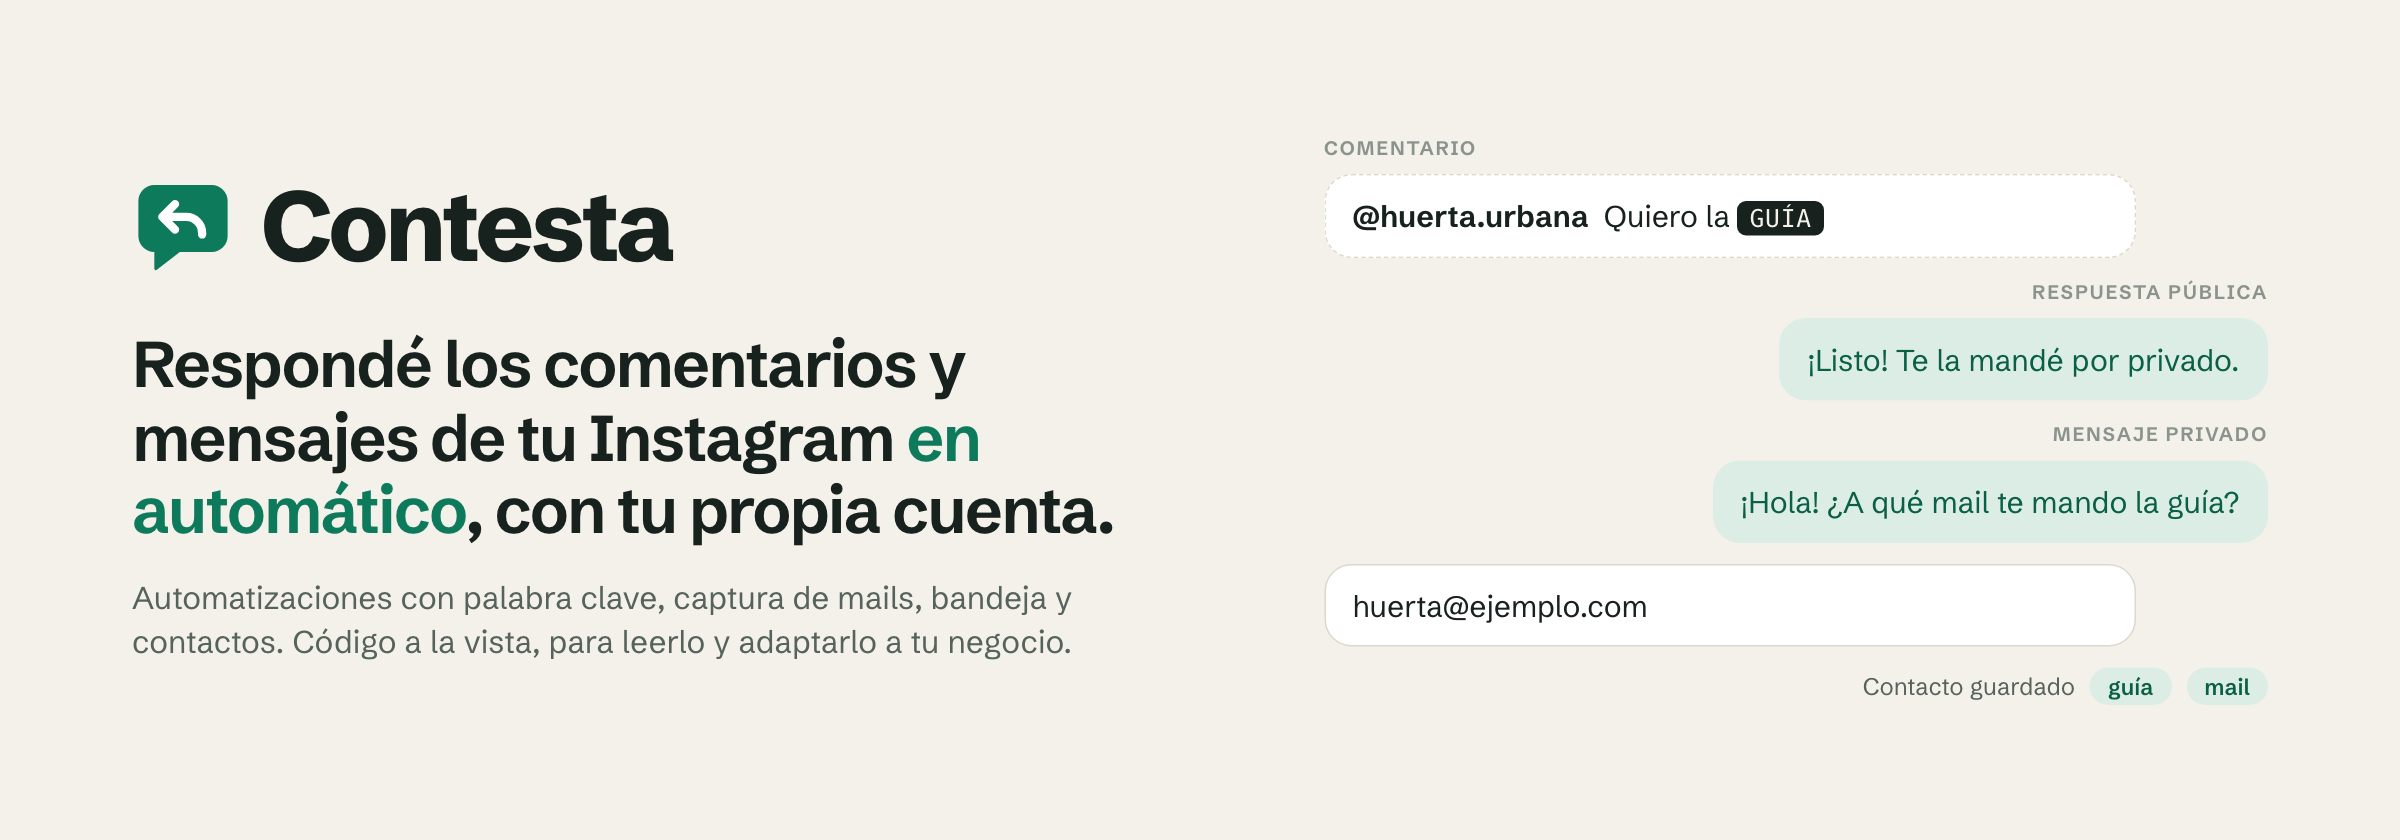
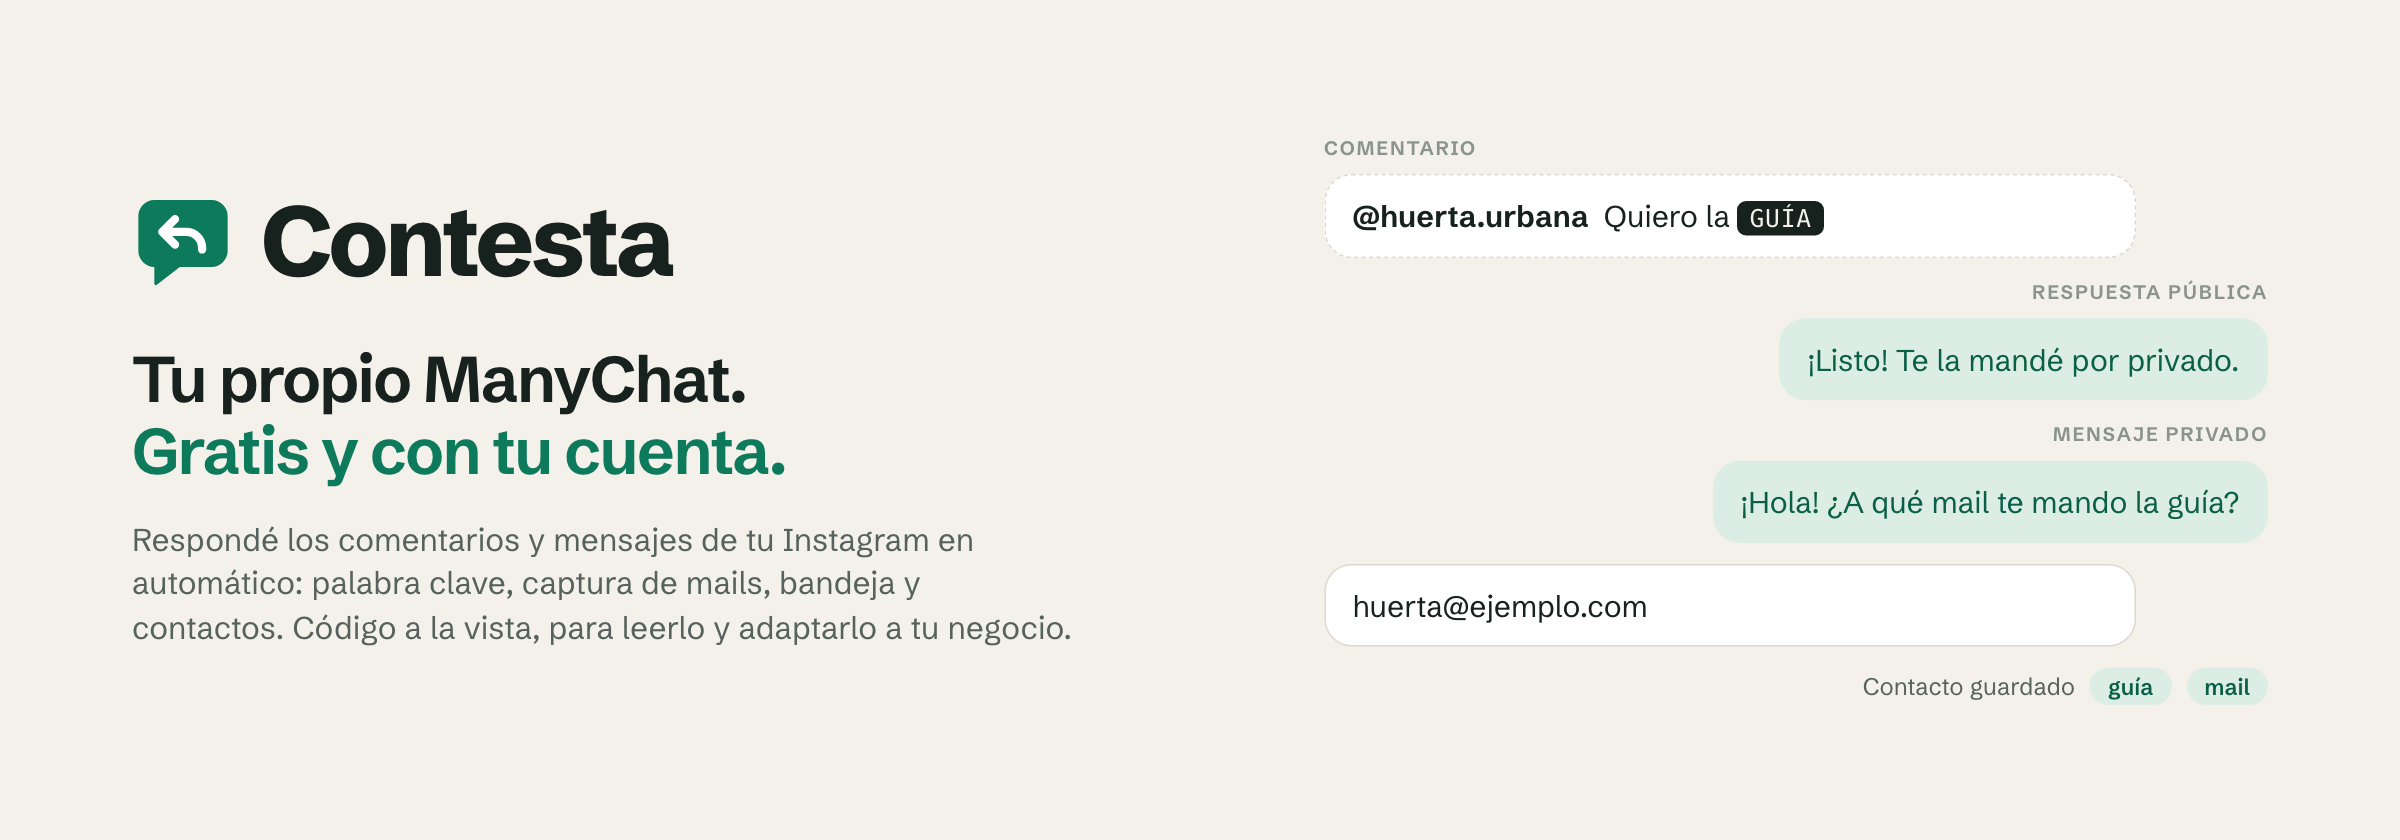
Animación de producto en el README; portada y tarjeta social con 'Tu propio ManyChat. Gratis y con tu cuenta.'

Changed region(s): [[0.0312, 0.4024, 0.4688, 0.7738], [0.0625, 0.2167, 0.2812, 0.3405]]

diff --git a/docs/img/fuente/portada.html b/docs/img/fuente/portada.html
@@ -47,8 +47,8 @@
 <body>
   <div>
     <div class="marca"><img src="../../../public/icono.svg" alt=""><span>Contesta</span></div>
-    <h1>Respondé los comentarios y mensajes de tu Instagram <em>en automático</em>, con tu propia cuenta.</h1>
-    <p>Automatizaciones con palabra clave, captura de mails, bandeja y contactos. Código a la vista, para leerlo y adaptarlo a tu negocio.</p>
+    <h1>Tu propio ManyChat.<br><em>Gratis y con tu cuenta.</em></h1>
+    <p>Respondé los comentarios y mensajes de tu Instagram en automático: palabra clave, captura de mails, bandeja y contactos. Código a la vista, para leerlo y adaptarlo a tu negocio.</p>
   </div>
   <div class="escena" aria-hidden="true">
     <div class="rotulo">Comentario</div>

diff --git a/README.md b/README.md
@@ -1,5 +1,9 @@
 <p align="center">
-  <img src="docs/img/portada.png" alt="Contesta: respondé los comentarios y mensajes de tu Instagram en automático, con tu propia cuenta. A la derecha, un ejemplo: alguien comenta GUÍA, recibe una respuesta pública y un privado que le pide el mail, y queda guardado como contacto." width="100%">
+  <img src="docs/img/portada.png" alt="Contesta: tu propio ManyChat, gratis y con tu cuenta. A la derecha, un ejemplo: alguien comenta GUÍA, recibe una respuesta pública y un privado que le pide el mail, y queda guardado como contacto." width="100%">
+</p>
+
+<p align="center">
+  <img src="docs/img/animacion.gif" alt="Animación del panel de Contesta: llega un comentario con la palabra GUÍA, la automatización «Comentá GUÍA y te la mando» lo detecta, sale la respuesta pública, se envía el mensaje privado con el link, el contacto queda guardado con la etiqueta guía y suben los números de las estadísticas." width="100%">
 </p>
 
 # Contesta
